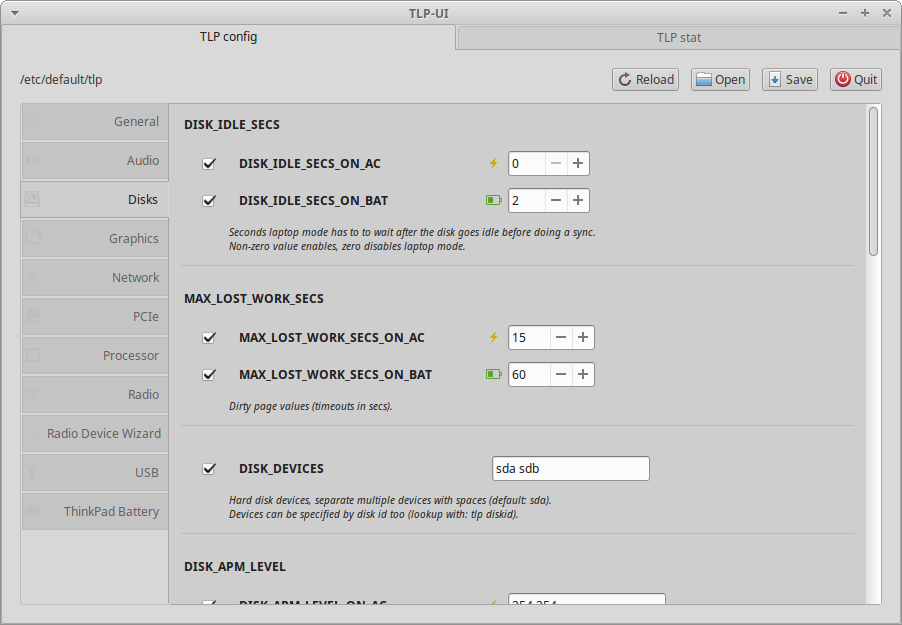
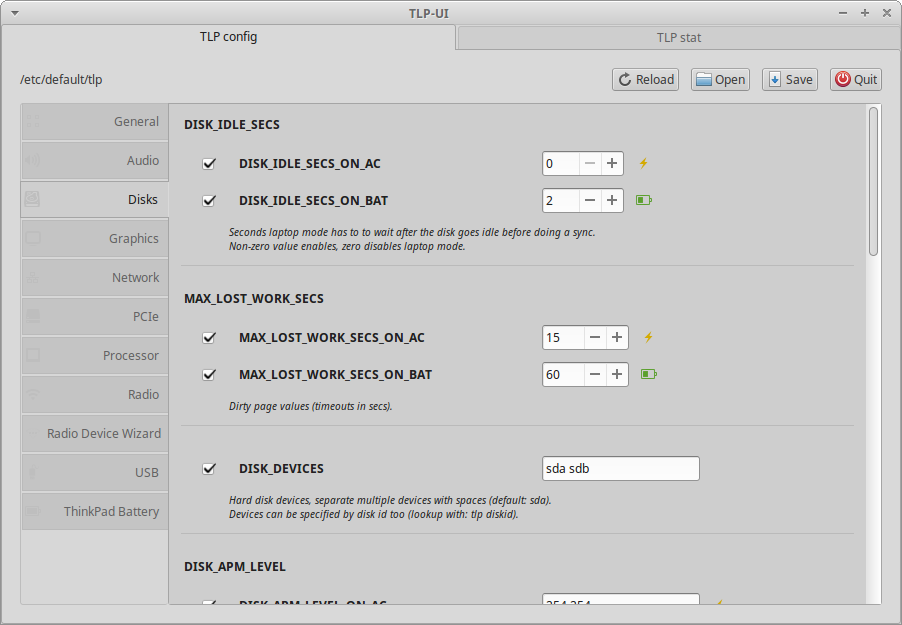
#Issue 10: * Only show dialog if changed items available #Issue 15: * Alignments adjusted Other: * Small config fixes * Screenshot updated

diff --git a/configui.py b/configui.py
@@ -104,19 +104,18 @@ def create_item_box(configobjects, doc, grouptitle) -> Gtk.Box:
         configlabel = Gtk.Label(xalign=0)
         configlabel.set_markup(' <b>' + configname + '</b> ')
         configlabel.set_use_markup(True)
-        configlabel.set_size_request(250, 0)
+        configlabel.set_size_request(300, 0)
 
         # combine boxes
         tlpconfigbox.pack_start(configlabel, False, False, 0)
+        tlpconfigbox.pack_start(configwidget, True, True, 0)
 
         if configname.endswith('_BAT'):
             image = Gtk.Image.new_from_file('icons/OnBAT.svg')
-            tlpconfigbox.pack_start(image, False, False, 0)
+            tlpconfigbox.pack_start(image, False, False, 12)
         elif configname.endswith('_AC'):
             image = Gtk.Image.new_from_file('icons/OnAC.svg')
-            tlpconfigbox.pack_start(image, False, False, 0)
-
-        tlpconfigbox.pack_start(configwidget, True, True, 0)
+            tlpconfigbox.pack_start(image, False, False, 12)
 
         tlpuiobject.pack_start(statetogglebox, False, False, 0)
         tlpuiobject.pack_start(tlpconfigbox, False, False, 0)

diff --git a/mainui.py b/mainui.py
@@ -68,7 +68,12 @@ def save_tlp_config(self, filenamepointer, tlpconfig, window):
     dialog.destroy()
 
 
-def quit_tlp_config(self, window):
+def quit_tlp_config(self, tlpconfig, window):
+    changedproperties = get_changed_properties(tlpconfig)
+    if len(changedproperties) == 0:
+        Gtk.main_quit()
+        return
+
     dialog = Gtk.Dialog("Confirm dialog", window, 0, (
         Gtk.STOCK_CANCEL, Gtk.ResponseType.CANCEL,
         Gtk.STOCK_OK, Gtk.ResponseType.OK
@@ -101,7 +106,7 @@ def create_settings_box(window, configpath, tlp_config_items):
     savebutton = Gtk.Button(label=' Save', image=Gtk.Image(stock=Gtk.STOCK_SAVE))
     savebutton.connect('clicked', save_tlp_config, fileentry.get_text, tlp_config_items, window)
     quitbutton = Gtk.Button(label=' Quit', image=Gtk.Image(stock=Gtk.STOCK_QUIT))
-    quitbutton.connect('clicked', quit_tlp_config, window)
+    quitbutton.connect('clicked', quit_tlp_config, tlp_config_items, window)
 
     settingsbox = Gtk.Box(orientation=Gtk.Orientation.HORIZONTAL, spacing=12)
     settingsbox.pack_start(fileentry, True, True, 0)

diff --git a/ui_config_objects/gtkcheckbutton.py b/ui_config_objects/gtkcheckbutton.py
@@ -12,9 +12,14 @@ def create_checkbutton_box(values, tlpobject) -> Gtk.Box:
             checkbutton.set_active(True)
         checkbuttons.append(checkbutton)
 
+    checkbuttonitem = 0
     for checkbutton in checkbuttons:
         checkbutton.connect('toggled', change_check_state, checkbuttons, tlpobject)
-        checkbox.pack_start(checkbutton, False, False, 5)
+        if checkbuttonitem%2 == 0:
+            checkbox.pack_start(checkbutton, False, False, 0)
+        else:
+            checkbox.pack_start(checkbutton, False, False, 12)
+        checkbuttonitem+=1
 
     return checkbox
 

diff --git a/config.py b/config.py
@@ -49,7 +49,8 @@ class TlpConfig:
 def get_changed_properties(tlpconfig) -> list:
     changedproperties = list()
 
-    for config in tlpconfig:
+    for configid in tlpconfig:
+        config = tlpconfig[configid]
         newstate = config.get_new_state()
         newvalue = config.get_new_value()
 
